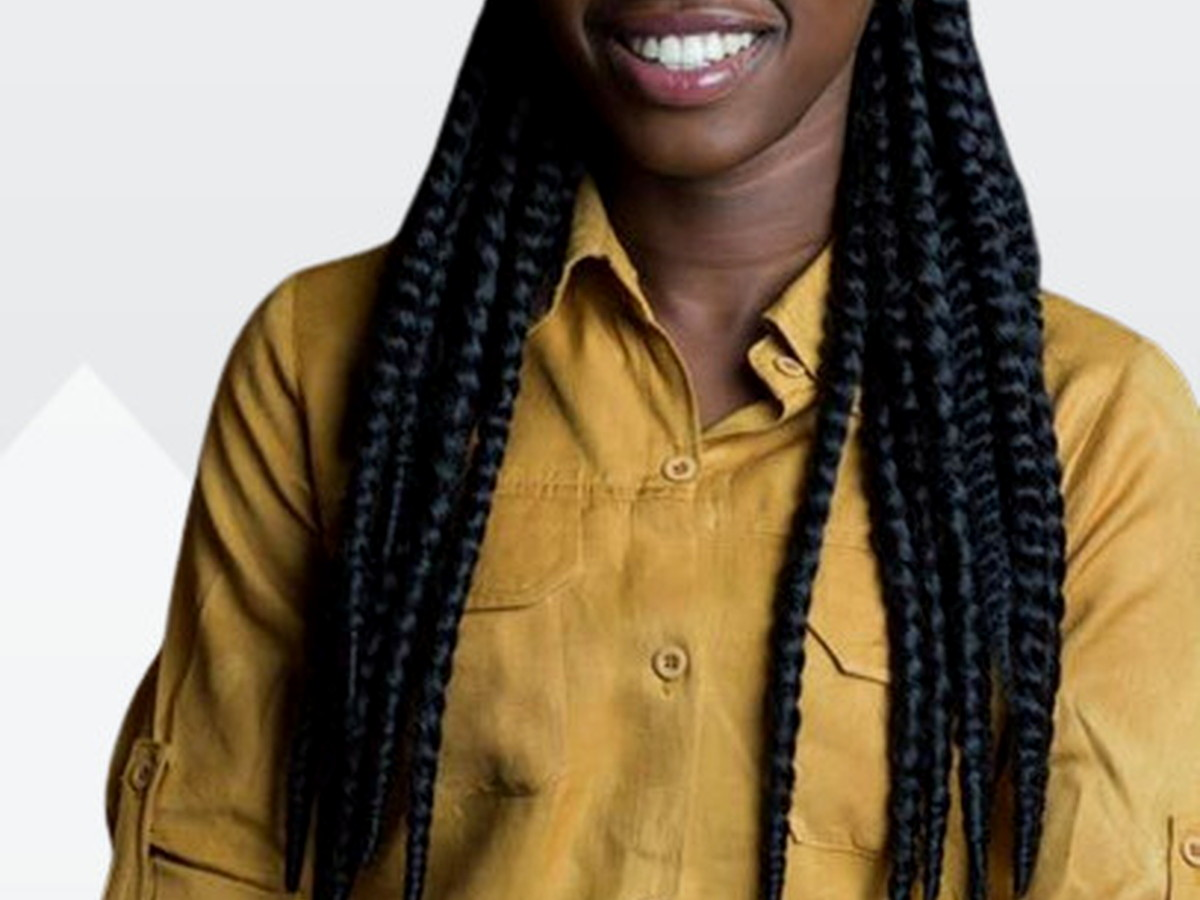
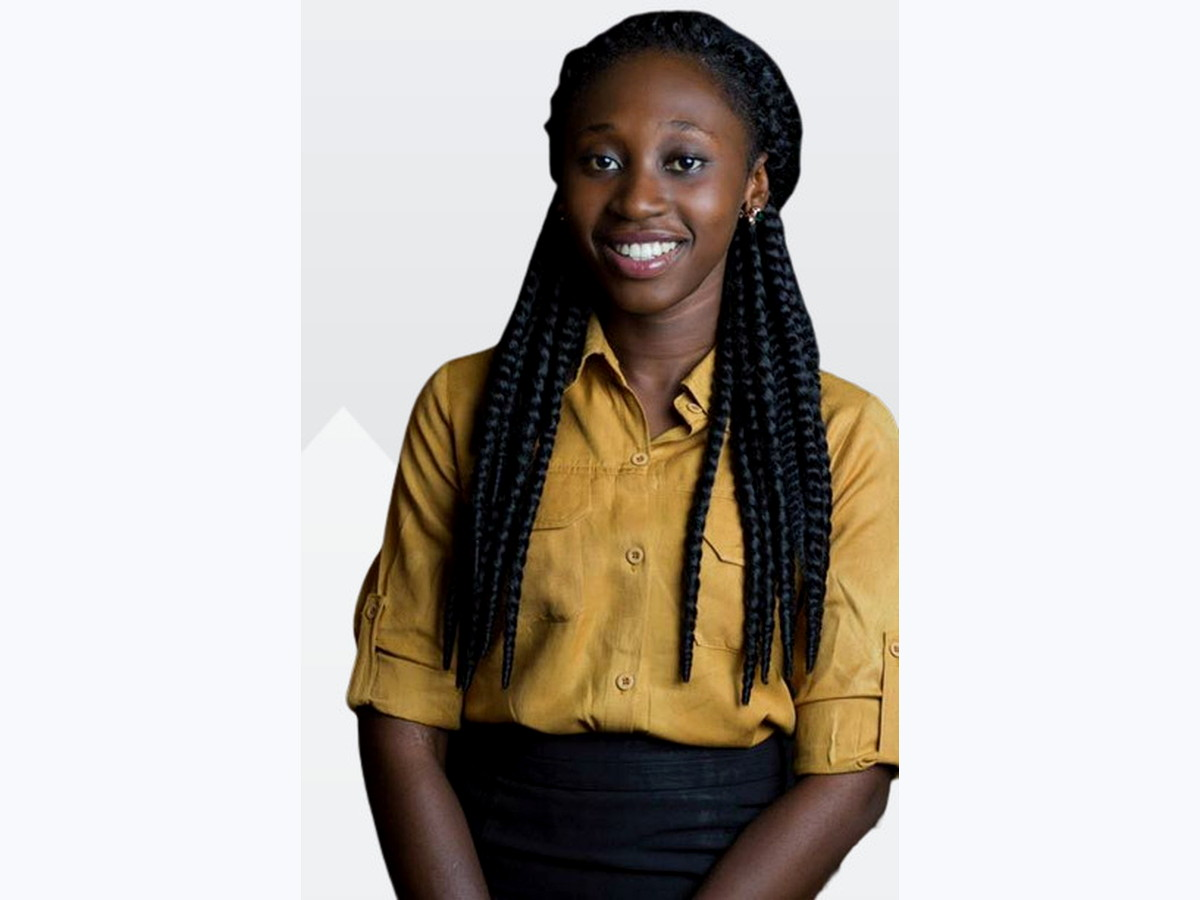
Fix decapitated team portraits: letterbox card exports (contain_pad) and top-anchor CSS; CEO image max-height.

diff --git a/index.html b/index.html
@@ -930,19 +930,19 @@
       background: linear-gradient(160deg, #e8f0fb 0%, var(--pale) 100%);
       overflow: hidden;
       box-sizing: border-box;
-      padding: 18px 20px 16px;
+      padding: 16px 18px 14px;
       display: flex;
-      align-items: center;
+      align-items: flex-start;
       justify-content: center;
+      min-height: 0;
     }
     .team-card-media img {
-      width: auto;
-      height: auto;
-      max-width: 100%;
-      max-height: 100%;
-      object-fit: contain;
-      object-position: center center;
       display: block;
+      width: 100%;
+      height: 100%;
+      min-height: 0;
+      object-fit: contain;
+      object-position: center top;
       border-radius: 8px;
     }
     .team-card .team-name,
@@ -970,6 +970,15 @@
       min-height: 300px;
       height: auto;
       padding: 22px 24px;
+      align-items: center;
+      justify-content: center;
+    }
+    .team-card--ceo .team-card-media img {
+      width: auto;
+      max-width: 100%;
+      height: auto;
+      max-height: min(400px, 72vw);
+      object-position: center center;
     }
     .team-card--ceo .team-card-body {
       padding: 26px 28px 22px 0;
@@ -1022,19 +1031,19 @@
       background: linear-gradient(165deg, #eef6e8 0%, var(--pale) 100%);
       overflow: hidden;
       box-sizing: border-box;
-      padding: 18px 20px 16px;
+      padding: 16px 18px 14px;
       display: flex;
-      align-items: center;
+      align-items: flex-start;
       justify-content: center;
+      min-height: 0;
     }
     .board-card-media img {
-      width: auto;
-      height: auto;
-      max-width: 100%;
-      max-height: 100%;
-      object-fit: contain;
-      object-position: center center;
       display: block;
+      width: 100%;
+      height: 100%;
+      min-height: 0;
+      object-fit: contain;
+      object-position: center top;
       border-radius: 8px;
     }
     .board-card .team-name,

diff --git a/scripts/process_leadership_photos.py b/scripts/process_leadership_photos.py
@@ -2,7 +2,7 @@
 Process Leadership / LEADERSHIP PICTURES 2 sources into standardized assets/leadership JPEGs.
 
 - Neutral background (#f5f7fa) for transparency / odd edges
-- 4:3 card portraits at 1200x900 (executive + board)
+- 4:3 card portraits at 1200x900 (executive + board) via letterbox fit — full subject visible, no decapitating crop
 - Square advisor avatars at 240x240 (displayed small in UI)
 - Mild sharpen + JPEG quality 90
 
@@ -62,6 +62,21 @@ def cover_crop(im: Image.Image, w: int, h: int) -> Image.Image:
     return im.crop((left, top, left + w, top + h))
 
 
+def contain_pad(im: Image.Image, w: int, h: int) -> Image.Image:
+    """Scale uniformly to fit inside w×h, pad with neutral (no cropping)."""
+    im = to_rgb_on_neutral(im)
+    im = ImageOps.exif_transpose(im)
+    src_w, src_h = im.size
+    scale = min(w / src_w, h / src_h)
+    nw, nh = max(1, int(round(src_w * scale))), max(1, int(round(src_h * scale)))
+    resized = im.resize((nw, nh), Image.Resampling.LANCZOS)
+    canvas = Image.new("RGB", (w, h), NEUTRAL)
+    left = (w - nw) // 2
+    top = (h - nh) // 2
+    canvas.paste(resized, (left, top))
+    return canvas
+
+
 def enhance_clarity(im: Image.Image) -> Image.Image:
     im = ImageEnhance.Contrast(im).enhance(1.04)
     im = ImageEnhance.Sharpness(im).enhance(1.1)
@@ -105,7 +120,7 @@ def process_pair(src_name: str, out_name: str, kind: str) -> str:
     if kind == "avatar":
         out_im = cover_crop(im, *AVATAR)
     else:
-        out_im = cover_crop(im, *CARD)
+        out_im = contain_pad(im, *CARD)
     out_im = enhance_clarity(out_im)
     save_jpeg(out_im, OUT_DIR / out_name)
     return f"OK -> {out_name}"
@@ -117,7 +132,7 @@ def reprocess_existing(out_name: str) -> str | None:
     if not p.exists():
         return None
     im = _open(p)
-    out_im = cover_crop(im, *CARD)
+    out_im = contain_pad(im, *CARD)
     out_im = enhance_clarity(out_im)
     save_jpeg(out_im, p)
     return f"OK (reprocess existing) {out_name}"
